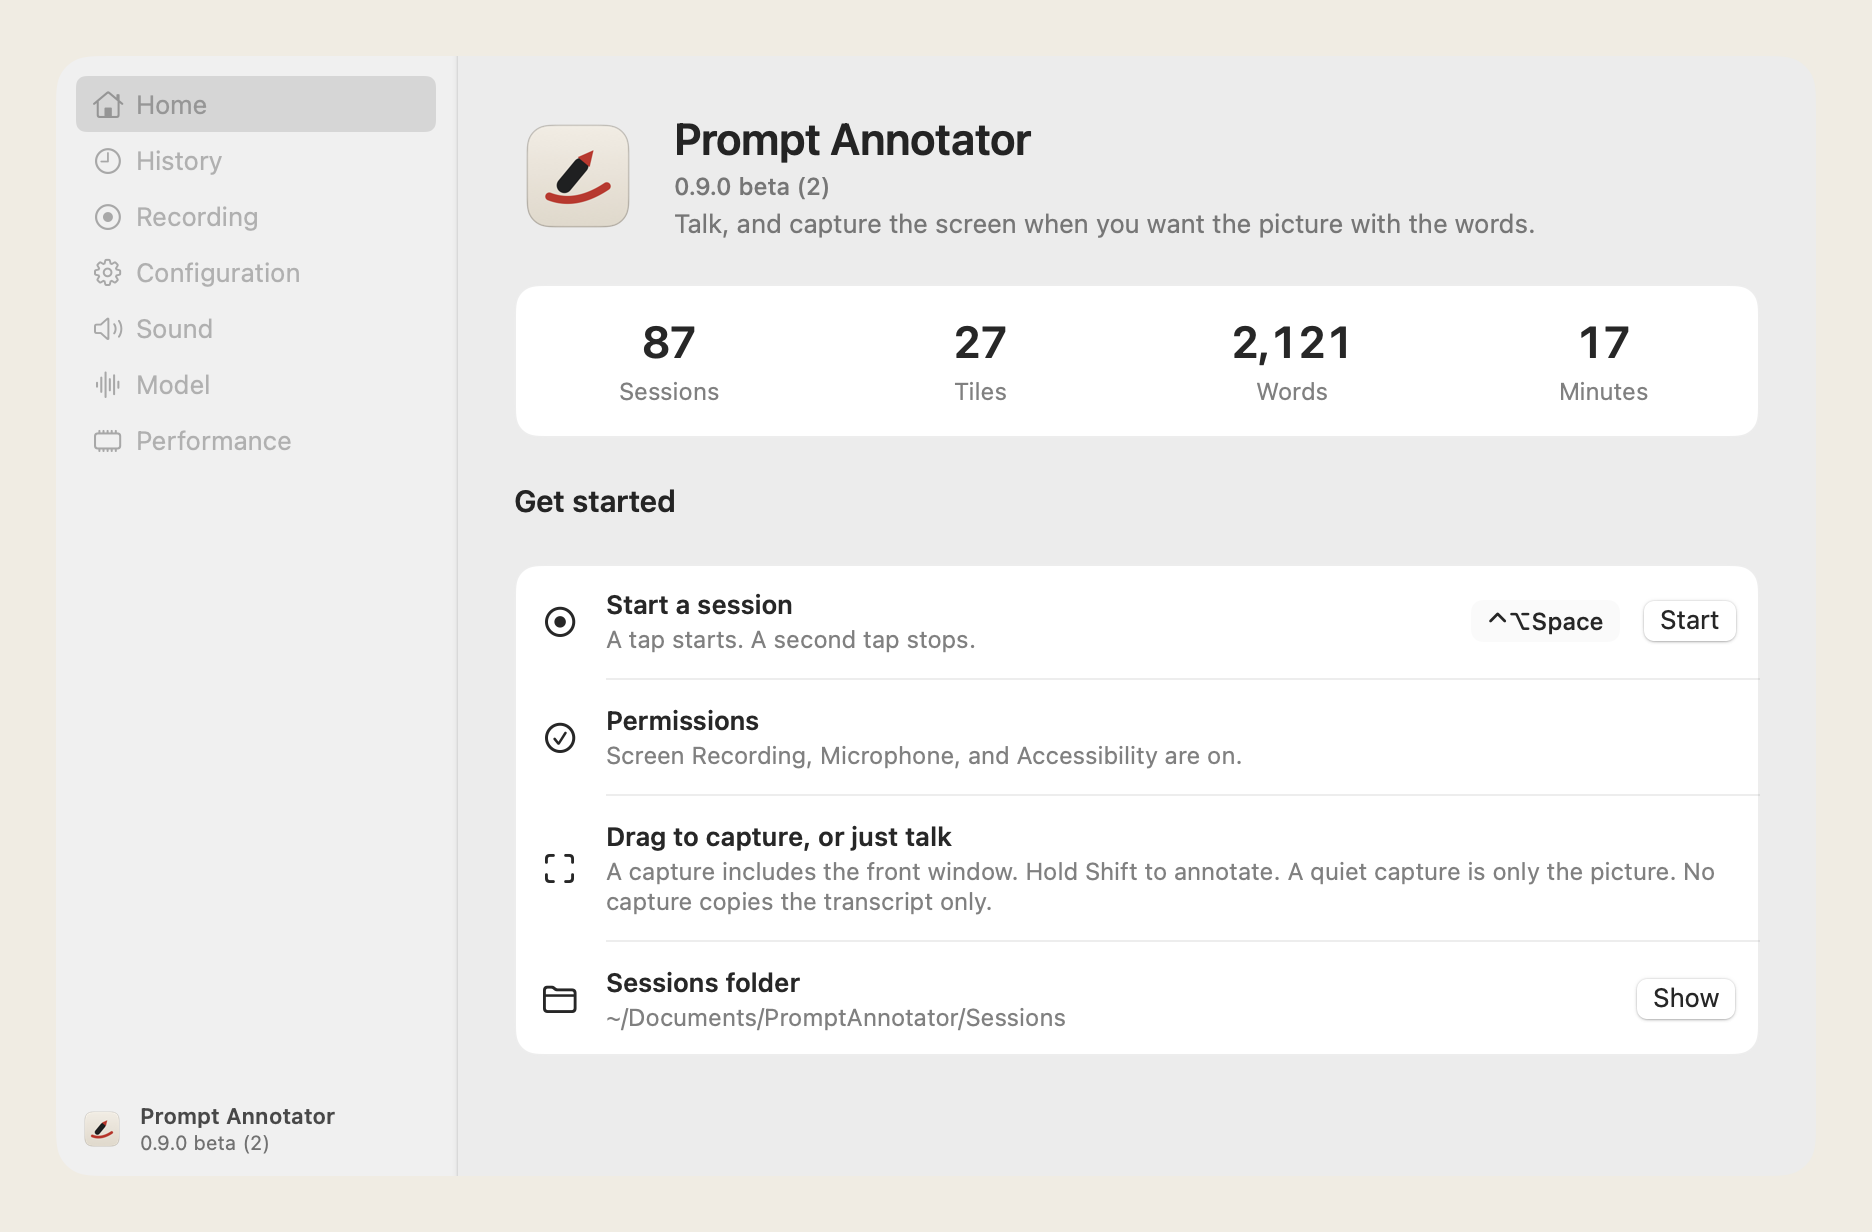
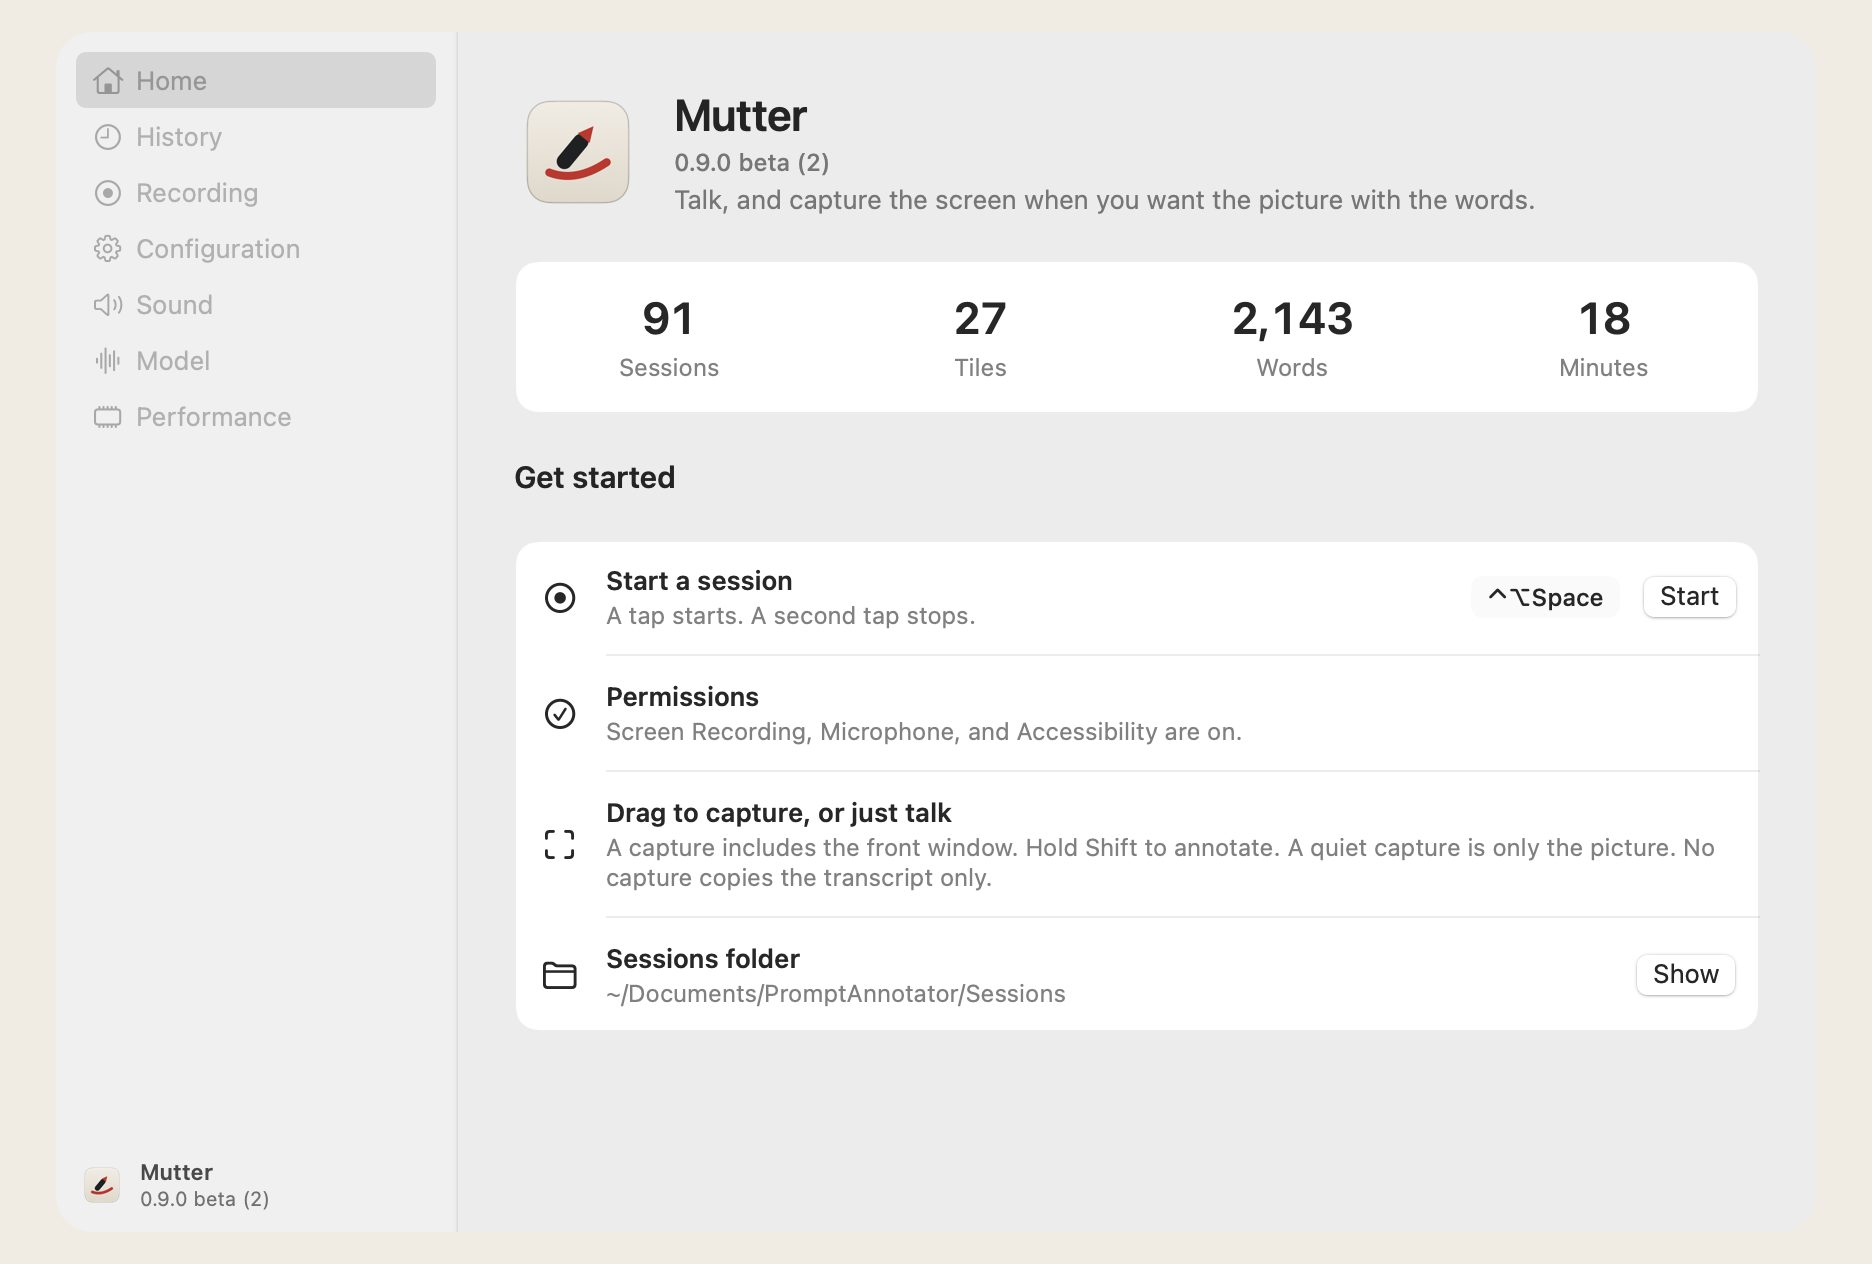
feat: rename the app to Mutter
The Dock, menu, welcome window, and settings now say Mutter.
The bundle id, signing certificate, and sessions folder stay put.

diff --git a/PromptAnnotator/Settings/ConfigurationPage.swift b/PromptAnnotator/Settings/ConfigurationPage.swift
@@ -30,7 +30,7 @@ struct ConfigurationPage: View {
                 .font(.system(size: 13, weight: .semibold))
             advancedCard
 
-            Text("Prompt Annotator \(AppVersion.label) is free and open source.")
+            Text("Mutter \(AppVersion.label) is free and open source.")
                 .font(.system(size: 12))
                 .foregroundStyle(.secondary)
             HStack {
@@ -113,7 +113,7 @@ struct ConfigurationPage: View {
     private var applicationCard: some View {
         SettingsCard {
             VStack(alignment: .leading, spacing: 0) {
-                toggleRow("Launch at login", "Opens Prompt Annotator when you sign in.") {
+                toggleRow("Launch at login", "Opens Mutter when you sign in.") {
                     settings.launchAtLogin
                 } set: {
                     settings.setLaunchAtLogin($0)
@@ -149,7 +149,7 @@ struct ConfigurationPage: View {
                     settings.setKeepWindowOnTop($0)
                 }
                 SettingsDivider()
-                toggleRow("Show in the Dock", "Turn this off to keep Prompt Annotator in the menu bar only.") {
+                toggleRow("Show in the Dock", "Turn this off to keep Mutter in the menu bar only.") {
                     settings.showInDock
                 } set: {
                     settings.setShowInDock($0)

diff --git a/PromptAnnotator/Support/ReleaseCheck.swift b/PromptAnnotator/Support/ReleaseCheck.swift
@@ -1,7 +1,7 @@
 import Foundation
 
 enum ReleaseCheck {
-    static let repo = URL(string: "https://github.com/bicrick/prompt-annotator/releases")!
+    static let repo = URL(string: "https://github.com/bicrick/mutter/releases")!
 
     static func currentVersion() -> String {
         Bundle.main.object(forInfoDictionaryKey: "CFBundleShortVersionString") as? String ?? "0.9.0"
@@ -9,12 +9,12 @@ enum ReleaseCheck {
 
     static func lookUp() async -> String {
         let current = currentVersion()
-        guard let url = URL(string: "https://api.github.com/repos/bicrick/prompt-annotator/releases/latest") else {
+        guard let url = URL(string: "https://api.github.com/repos/bicrick/mutter/releases/latest") else {
             return "This build is \(AppVersion.label)."
         }
         var request = URLRequest(url: url)
         request.timeoutInterval = 12
-        request.setValue("PromptAnnotator", forHTTPHeaderField: "User-Agent")
+        request.setValue("Mutter", forHTTPHeaderField: "User-Agent")
         request.setValue("application/vnd.github+json", forHTTPHeaderField: "Accept")
         do {
             let (data, response) = try await URLSession.shared.data(for: request)

diff --git a/PromptAnnotator/Onboarding/OnboardingFlow.swift b/PromptAnnotator/Onboarding/OnboardingFlow.swift
@@ -40,7 +40,7 @@ struct OnboardingFlow: View {
             HStack(spacing: 14) {
                 AppLogo(side: 56)
                 VStack(alignment: .leading, spacing: 3) {
-                    Text("Prompt Annotator")
+                    Text("Mutter")
                         .font(.system(size: 20, weight: .semibold))
                     Text(AppVersion.label)
                         .font(.system(size: 12, weight: .medium))
@@ -186,7 +186,7 @@ struct OnboardingFlow: View {
 
     private var primaryTitle: String {
         guard step == .model, !modelIsReady else {
-            return step == .ready ? "Open Prompt Annotator" : "Continue"
+            return step == .ready ? "Open Mutter" : "Continue"
         }
         if transfer.isWorking, let fraction = transfer.fraction {
             return "Downloading \(Int((fraction * 100).rounded()))%"
@@ -286,7 +286,7 @@ final class OnboardingPresenter {
             backing: .buffered,
             defer: false
         )
-        window.title = "Welcome to Prompt Annotator"
+        window.title = "Welcome to Mutter"
         window.isReleasedWhenClosed = false
         window.contentView = host
         window.center()

diff --git a/PromptAnnotator/PromptAnnotatorApp.swift b/PromptAnnotator/PromptAnnotatorApp.swift
@@ -18,7 +18,7 @@ struct PromptAnnotatorApp: App {
         } label: {
             // A system image. A custom drawing in this label does not show up in the menu bar.
             Image(systemName: session.phase == .recording ? "record.circle.fill" : "pencil.tip.crop.circle")
-                .accessibilityLabel(session.phase == .recording ? "Prompt Annotator, recording" : "Prompt Annotator")
+                .accessibilityLabel(session.phase == .recording ? "Mutter, recording" : "Mutter")
         }
     }
 }
@@ -28,7 +28,7 @@ private struct SessionMenu: View {
     @ObservedObject var settings: AppSettings
 
     var body: some View {
-        Button("Open Prompt Annotator") {
+        Button("Open Mutter") {
             SettingsPresenter.shared.show()
         }
 
@@ -64,7 +64,7 @@ private struct SessionMenu: View {
             }
         }
 
-        Button("Quit Prompt Annotator") {
+        Button("Quit Mutter") {
             NSApp.terminate(nil)
         }
     }

diff --git a/PromptAnnotator/Settings/PerformancePage.swift b/PromptAnnotator/Settings/PerformancePage.swift
@@ -44,9 +44,9 @@ struct PerformancePage: View {
     private var shareSentence: String {
         let percent = Int((snapshot.appShare * 100).rounded())
         if snapshot.modelReady {
-            return "Prompt Annotator is using about \(percent)% of the memory in this Mac, with the model loaded."
+            return "Mutter is using about \(percent)% of the memory in this Mac, with the model loaded."
         }
-        return "Prompt Annotator is using about \(percent)% of the memory in this Mac. The model is not loaded yet."
+        return "Mutter is using about \(percent)% of the memory in this Mac. The model is not loaded yet."
     }
 
     private func meter(_ title: String, _ value: String, _ detail: String) -> some View {

diff --git a/PromptAnnotator/Settings/SettingsWindow.swift b/PromptAnnotator/Settings/SettingsWindow.swift
@@ -59,7 +59,7 @@ struct SettingsRoot: View {
         HStack(spacing: 8) {
             AppLogo(side: 22)
             VStack(alignment: .leading, spacing: 0) {
-                Text("Prompt Annotator")
+                Text("Mutter")
                     .font(.system(size: 11, weight: .semibold))
                 Text(AppVersion.label)
                     .font(.system(size: 10))
@@ -109,7 +109,7 @@ final class SettingsPresenter {
             backing: .buffered,
             defer: false
         )
-        window.title = "Prompt Annotator"
+        window.title = "Mutter"
         window.titlebarAppearsTransparent = true
         window.titleVisibility = .hidden
         window.titlebarSeparatorStyle = .none

diff --git a/PromptAnnotator/SessionController.swift b/PromptAnnotator/SessionController.swift
@@ -577,7 +577,7 @@ final class SessionController: ObservableObject {
                 offerPermissions(Permissions.Status(accessibility: false, microphone: true, screen: true))
             } else {
                 lastError = "Couldn't watch the pointer."
-                presentError("Couldn't watch the pointer", "Accessibility is on, but the event tap did not install. Quit and reopen Prompt Annotator.")
+                presentError("Couldn't watch the pointer", "Accessibility is on, but the event tap did not install. Quit and reopen Mutter.")
             }
             return
         }

diff --git a/PromptAnnotator/Settings/HomePage.swift b/PromptAnnotator/Settings/HomePage.swift
@@ -36,7 +36,7 @@ struct HomePage: View {
         HStack(spacing: 16) {
             AppLogo(side: 64)
             VStack(alignment: .leading, spacing: 3) {
-                Text("Prompt Annotator")
+                Text("Mutter")
                     .font(.system(size: 22, weight: .semibold))
                 Text(AppVersion.label)
                     .font(.system(size: 12, weight: .medium))

diff --git a/PromptAnnotator/Export/SessionWriter.swift b/PromptAnnotator/Export/SessionWriter.swift
@@ -29,7 +29,7 @@ struct SessionMarkdown {
         transcriptionError: String?
     ) -> String {
         var lines: [String] = []
-        lines.append("# Prompt Annotator")
+        lines.append("# Mutter")
         lines.append("")
         lines.append("Started: \(started)")
         lines.append("Ended: \(ended)")

diff --git a/PromptAnnotator/Settings/AppMark.swift b/PromptAnnotator/Settings/AppMark.swift
@@ -9,6 +9,6 @@ struct AppLogo: View {
             .resizable()
             .interpolation(.high)
             .frame(width: side, height: side)
-            .accessibilityLabel("Prompt Annotator")
+            .accessibilityLabel("Mutter")
     }
 }

diff --git a/README.md b/README.md
@@ -1,8 +1,8 @@
 <p align="center">
-  <img src="assets/mark.png" width="96" alt="Prompt Annotator">
+  <img src="assets/mark.png" width="96" alt="Mutter">
 </p>
 
-<h1 align="center">Prompt Annotator</h1>
+<h1 align="center">Mutter</h1>
 
 <p align="center">Talk, and capture the screen when you want the picture with the words.</p>
 
@@ -17,7 +17,7 @@
 </p>
 
 <p align="center">
-  <img src="assets/settings.png" width="680" alt="Prompt Annotator window">
+  <img src="assets/settings.png" width="680" alt="Mutter window">
 </p>
 
 ## Install
@@ -25,8 +25,8 @@
 There is no download yet. Clone the repo, open the project, and run.
 
 ```sh
-git clone https://github.com/bicrick/prompt-annotator.git
-cd prompt-annotator
+git clone https://github.com/bicrick/mutter.git
+cd mutter
 open PromptAnnotator.xcodeproj
 ```
 
